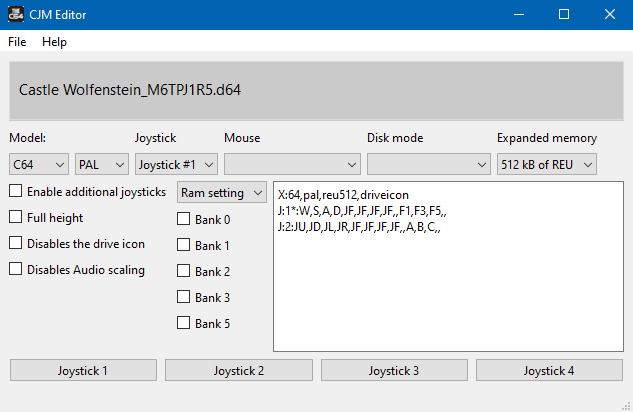
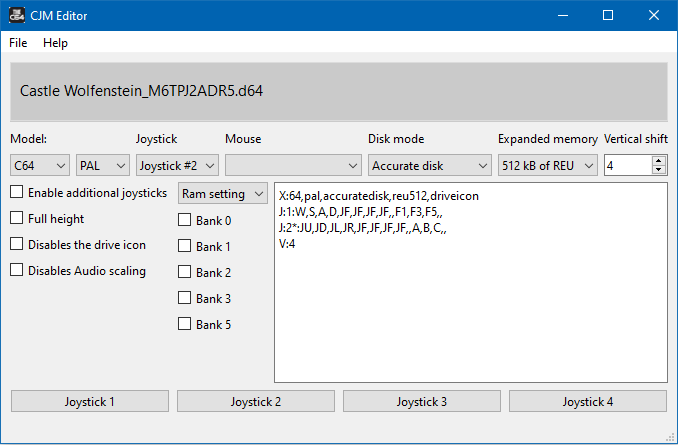
Vertical display shift

Changed region(s): [[0.0, 0.0, 1.0, 1.0], [0.03, 0.1748, 0.3902, 0.233]]

diff --git a/mainwindow.py b/mainwindow.py
@@ -12,7 +12,7 @@ from PyQt6 import QtCore, QtGui, QtWidgets
 class Ui_MainWindow(object):
     def setupUi(self, MainWindow):
         MainWindow.setObjectName("MainWindow")
-        MainWindow.resize(633, 382)
+        MainWindow.resize(727, 412)
         self.centralwidget = QtWidgets.QWidget(parent=MainWindow)
         self.centralwidget.setObjectName("centralwidget")
         self.verticalLayout_3 = QtWidgets.QVBoxLayout(self.centralwidget)
@@ -46,21 +46,22 @@ class Ui_MainWindow(object):
         self.verticalLayout_3.addWidget(self.groupBox)
         self.gridLayout = QtWidgets.QGridLayout()
         self.gridLayout.setObjectName("gridLayout")
-        self.model = QtWidgets.QComboBox(parent=self.centralwidget)
-        self.model.setObjectName("model")
-        self.model.addItem("")
-        self.model.setItemText(0, "")
-        self.model.addItem("")
-        self.model.addItem("")
-        self.gridLayout.addWidget(self.model, 1, 0, 1, 1)
-        self.label = QtWidgets.QLabel(parent=self.centralwidget)
+        self.reu = QtWidgets.QComboBox(parent=self.centralwidget)
+        self.reu.setObjectName("reu")
+        self.reu.addItem("")
+        self.reu.setItemText(0, "")
+        self.reu.addItem("")
+        self.reu.addItem("")
+        self.reu.addItem("")
+        self.gridLayout.addWidget(self.reu, 1, 5, 1, 1)
+        self.label_5 = QtWidgets.QLabel(parent=self.centralwidget)
         sizePolicy = QtWidgets.QSizePolicy(QtWidgets.QSizePolicy.Policy.Minimum, QtWidgets.QSizePolicy.Policy.Preferred)
         sizePolicy.setHorizontalStretch(0)
         sizePolicy.setVerticalStretch(0)
-        sizePolicy.setHeightForWidth(self.label.sizePolicy().hasHeightForWidth())
-        self.label.setSizePolicy(sizePolicy)
-        self.label.setObjectName("label")
-        self.gridLayout.addWidget(self.label, 0, 0, 1, 2)
+        sizePolicy.setHeightForWidth(self.label_5.sizePolicy().hasHeightForWidth())
+        self.label_5.setSizePolicy(sizePolicy)
+        self.label_5.setObjectName("label_5")
+        self.gridLayout.addWidget(self.label_5, 0, 3, 1, 1)
         self.mouse = QtWidgets.QComboBox(parent=self.centralwidget)
         self.mouse.setObjectName("mouse")
         self.mouse.addItem("")
@@ -68,6 +69,13 @@ class Ui_MainWindow(object):
         self.mouse.addItem("")
         self.mouse.addItem("")
         self.gridLayout.addWidget(self.mouse, 1, 3, 1, 1)
+        self.model = QtWidgets.QComboBox(parent=self.centralwidget)
+        self.model.setObjectName("model")
+        self.model.addItem("")
+        self.model.setItemText(0, "")
+        self.model.addItem("")
+        self.model.addItem("")
+        self.gridLayout.addWidget(self.model, 1, 0, 1, 1)
         self.label_3 = QtWidgets.QLabel(parent=self.centralwidget)
         sizePolicy = QtWidgets.QSizePolicy(QtWidgets.QSizePolicy.Policy.Minimum, QtWidgets.QSizePolicy.Policy.Preferred)
         sizePolicy.setHorizontalStretch(0)
@@ -77,44 +85,8 @@ class Ui_MainWindow(object):
         self.label_3.setMinimumSize(QtCore.QSize(0, 20))
         self.label_3.setObjectName("label_3")
         self.gridLayout.addWidget(self.label_3, 0, 4, 1, 1)
-        self.reu = QtWidgets.QComboBox(parent=self.centralwidget)
-        self.reu.setObjectName("reu")
-        self.reu.addItem("")
-        self.reu.setItemText(0, "")
-        self.reu.addItem("")
-        self.reu.addItem("")
-        self.reu.addItem("")
-        self.gridLayout.addWidget(self.reu, 1, 5, 1, 1)
-        self.model2 = QtWidgets.QComboBox(parent=self.centralwidget)
-        self.model2.setObjectName("model2")
-        self.model2.addItem("")
-        self.model2.setItemText(0, "")
-        self.model2.addItem("")
-        self.model2.addItem("")
-        self.gridLayout.addWidget(self.model2, 1, 1, 1, 1)
-        self.label_5 = QtWidgets.QLabel(parent=self.centralwidget)
-        sizePolicy = QtWidgets.QSizePolicy(QtWidgets.QSizePolicy.Policy.Minimum, QtWidgets.QSizePolicy.Policy.Preferred)
-        sizePolicy.setHorizontalStretch(0)
-        sizePolicy.setVerticalStretch(0)
-        sizePolicy.setHeightForWidth(self.label_5.sizePolicy().hasHeightForWidth())
-        self.label_5.setSizePolicy(sizePolicy)
-        self.label_5.setObjectName("label_5")
-        self.gridLayout.addWidget(self.label_5, 0, 3, 1, 1)
-        self.joystick = QtWidgets.QComboBox(parent=self.centralwidget)
-        self.joystick.setObjectName("joystick")
-        self.joystick.addItem("")
-        self.joystick.setItemText(0, "")
-        self.joystick.addItem("")
-        self.joystick.addItem("")
-        self.gridLayout.addWidget(self.joystick, 1, 2, 1, 1)
-        self.label_2 = QtWidgets.QLabel(parent=self.centralwidget)
-        sizePolicy = QtWidgets.QSizePolicy(QtWidgets.QSizePolicy.Policy.Minimum, QtWidgets.QSizePolicy.Policy.Preferred)
-        sizePolicy.setHorizontalStretch(0)
-        sizePolicy.setVerticalStretch(0)
-        sizePolicy.setHeightForWidth(self.label_2.sizePolicy().hasHeightForWidth())
-        self.label_2.setSizePolicy(sizePolicy)
-        self.label_2.setObjectName("label_2")
-        self.gridLayout.addWidget(self.label_2, 0, 2, 1, 1)
+        spacerItem = QtWidgets.QSpacerItem(40, 20, QtWidgets.QSizePolicy.Policy.Expanding, QtWidgets.QSizePolicy.Policy.Minimum)
+        self.gridLayout.addItem(spacerItem, 1, 7, 1, 1)
         self.diskmode = QtWidgets.QComboBox(parent=self.centralwidget)
         self.diskmode.setObjectName("diskmode")
         self.diskmode.addItem("")
@@ -123,11 +95,47 @@ class Ui_MainWindow(object):
         self.diskmode.addItem("")
         self.diskmode.addItem("")
         self.gridLayout.addWidget(self.diskmode, 1, 4, 1, 1)
+        self.model2 = QtWidgets.QComboBox(parent=self.centralwidget)
+        self.model2.setObjectName("model2")
+        self.model2.addItem("")
+        self.model2.setItemText(0, "")
+        self.model2.addItem("")
+        self.model2.addItem("")
+        self.gridLayout.addWidget(self.model2, 1, 1, 1, 1)
+        self.joystick = QtWidgets.QComboBox(parent=self.centralwidget)
+        self.joystick.setObjectName("joystick")
+        self.joystick.addItem("")
+        self.joystick.setItemText(0, "")
+        self.joystick.addItem("")
+        self.joystick.addItem("")
+        self.gridLayout.addWidget(self.joystick, 1, 2, 1, 1)
+        self.label = QtWidgets.QLabel(parent=self.centralwidget)
+        sizePolicy = QtWidgets.QSizePolicy(QtWidgets.QSizePolicy.Policy.Minimum, QtWidgets.QSizePolicy.Policy.Preferred)
+        sizePolicy.setHorizontalStretch(0)
+        sizePolicy.setVerticalStretch(0)
+        sizePolicy.setHeightForWidth(self.label.sizePolicy().hasHeightForWidth())
+        self.label.setSizePolicy(sizePolicy)
+        self.label.setObjectName("label")
+        self.gridLayout.addWidget(self.label, 0, 0, 1, 2)
         self.label_4 = QtWidgets.QLabel(parent=self.centralwidget)
         self.label_4.setObjectName("label_4")
         self.gridLayout.addWidget(self.label_4, 0, 5, 1, 1)
-        spacerItem = QtWidgets.QSpacerItem(40, 20, QtWidgets.QSizePolicy.Policy.Expanding, QtWidgets.QSizePolicy.Policy.Minimum)
-        self.gridLayout.addItem(spacerItem, 1, 6, 1, 1)
+        self.label_2 = QtWidgets.QLabel(parent=self.centralwidget)
+        sizePolicy = QtWidgets.QSizePolicy(QtWidgets.QSizePolicy.Policy.Minimum, QtWidgets.QSizePolicy.Policy.Preferred)
+        sizePolicy.setHorizontalStretch(0)
+        sizePolicy.setVerticalStretch(0)
+        sizePolicy.setHeightForWidth(self.label_2.sizePolicy().hasHeightForWidth())
+        self.label_2.setSizePolicy(sizePolicy)
+        self.label_2.setObjectName("label_2")
+        self.gridLayout.addWidget(self.label_2, 0, 2, 1, 1)
+        self.vshift = QtWidgets.QSpinBox(parent=self.centralwidget)
+        self.vshift.setMinimum(-15)
+        self.vshift.setMaximum(17)
+        self.vshift.setObjectName("vshift")
+        self.gridLayout.addWidget(self.vshift, 1, 6, 1, 1)
+        self.label_6 = QtWidgets.QLabel(parent=self.centralwidget)
+        self.label_6.setObjectName("label_6")
+        self.gridLayout.addWidget(self.label_6, 0, 6, 1, 1)
         self.verticalLayout_3.addLayout(self.gridLayout)
         self.horizontalLayout = QtWidgets.QHBoxLayout()
         self.horizontalLayout.setObjectName("horizontalLayout")
@@ -202,7 +210,7 @@ class Ui_MainWindow(object):
         self.verticalLayout_3.addLayout(self.horizontalLayout_2)
         MainWindow.setCentralWidget(self.centralwidget)
         self.menubar = QtWidgets.QMenuBar(parent=MainWindow)
-        self.menubar.setGeometry(QtCore.QRect(0, 0, 633, 22))
+        self.menubar.setGeometry(QtCore.QRect(0, 0, 727, 22))
         self.menubar.setObjectName("menubar")
         self.menu_File = QtWidgets.QMenu(parent=self.menubar)
         self.menu_File.setObjectName("menu_File")
@@ -247,11 +255,11 @@ class Ui_MainWindow(object):
         self.menu_Help.addAction(self.action_About)
         self.menubar.addAction(self.menu_File.menuAction())
         self.menubar.addAction(self.menu_Help.menuAction())
-        self.label.setBuddy(self.model)
-        self.label_3.setBuddy(self.diskmode)
         self.label_5.setBuddy(self.mouse)
-        self.label_2.setBuddy(self.joystick)
+        self.label_3.setBuddy(self.diskmode)
+        self.label.setBuddy(self.model)
         self.label_4.setBuddy(self.reu)
+        self.label_2.setBuddy(self.joystick)
 
         self.retranslateUi(MainWindow)
         QtCore.QMetaObject.connectSlotsByName(MainWindow)
@@ -278,25 +286,26 @@ class Ui_MainWindow(object):
         _translate = QtCore.QCoreApplication.translate
         MainWindow.setWindowTitle(_translate("MainWindow", "CJM Editor"))
         self.fileName.setText(_translate("MainWindow", "TextLabel"))
-        self.model.setItemText(1, _translate("MainWindow", "C64"))
-        self.model.setItemText(2, _translate("MainWindow", "VIC 20"))
-        self.label.setText(_translate("MainWindow", "Model:"))
-        self.mouse.setItemText(1, _translate("MainWindow", "1351 Mouse as joy #1"))
-        self.mouse.setItemText(2, _translate("MainWindow", "1351 Mouse as joy #2"))
-        self.label_3.setText(_translate("MainWindow", "Disk mode"))
         self.reu.setItemText(1, _translate("MainWindow", "512 kB of REU"))
         self.reu.setItemText(2, _translate("MainWindow", "2 MB of REU"))
         self.reu.setItemText(3, _translate("MainWindow", "16 MB of REU"))
-        self.model2.setItemText(1, _translate("MainWindow", "PAL"))
-        self.model2.setItemText(2, _translate("MainWindow", "NTSC"))
         self.label_5.setText(_translate("MainWindow", "Mouse"))
-        self.joystick.setItemText(1, _translate("MainWindow", "Joystick #1"))
-        self.joystick.setItemText(2, _translate("MainWindow", "Joystick #2"))
-        self.label_2.setText(_translate("MainWindow", "Joystick"))
+        self.mouse.setItemText(1, _translate("MainWindow", "1351 Mouse as joy #1"))
+        self.mouse.setItemText(2, _translate("MainWindow", "1351 Mouse as joy #2"))
+        self.model.setItemText(1, _translate("MainWindow", "C64"))
+        self.model.setItemText(2, _translate("MainWindow", "VIC 20"))
+        self.label_3.setText(_translate("MainWindow", "Disk mode"))
         self.diskmode.setItemText(1, _translate("MainWindow", "Accurate disk"))
         self.diskmode.setItemText(2, _translate("MainWindow", "Read only"))
         self.diskmode.setItemText(3, _translate("MainWindow", "Continuation disks"))
+        self.model2.setItemText(1, _translate("MainWindow", "PAL"))
+        self.model2.setItemText(2, _translate("MainWindow", "NTSC"))
+        self.joystick.setItemText(1, _translate("MainWindow", "Joystick #1"))
+        self.joystick.setItemText(2, _translate("MainWindow", "Joystick #2"))
+        self.label.setText(_translate("MainWindow", "Model:"))
         self.label_4.setText(_translate("MainWindow", "Expanded memory"))
+        self.label_2.setText(_translate("MainWindow", "Joystick"))
+        self.label_6.setText(_translate("MainWindow", "Vertical shift"))
         self.setmorejoy.setText(_translate("MainWindow", "Enable additional joysticks"))
         self.setfh.setText(_translate("MainWindow", "Full height"))
         self.setdi.setText(_translate("MainWindow", "Disables the drive icon"))

diff --git a/app.py b/app.py
@@ -74,6 +74,7 @@ class MainWindow(QMainWindow, Ui_MainWindow):
         self.joy2.clicked.connect(self.joystick_config)
         self.joy3.clicked.connect(self.joystick_config)
         self.joy4.clicked.connect(self.joystick_config)
+        self.vshift.valueChanged.connect(self.form_change)
 
         self.path = ""
         self.basename = ""
@@ -194,6 +195,8 @@ class MainWindow(QMainWindow, Ui_MainWindow):
         for i in range(4 if self.setmorejoy.isChecked() else 2):
             tmp = self.joy_config[i][:-1]
             result += f"J:{i + 1}{'*' if self.joystick.currentIndex()==i+1 else ''}:{','.join(tmp)}\n"
+        if self.vshift.value()!=0:
+            result += f"V:{self.vshift.value()}\n"
         return result
 
     def clear_form(self) -> None:
@@ -202,6 +205,7 @@ class MainWindow(QMainWindow, Ui_MainWindow):
         for item in [self.setmorejoy, self.setfh, self.setdi, self.setns, self.bank0, self.bank1, self.bank2,
                      self.bank3, self.bank5]:
             item.setChecked(False)
+        self.vshift.setValue(0)
 
     def parse_filename(self) -> None:
         items = self.basename.split('_')
